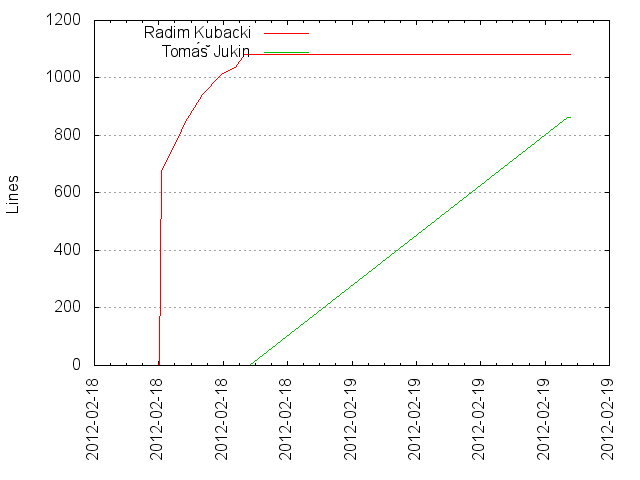
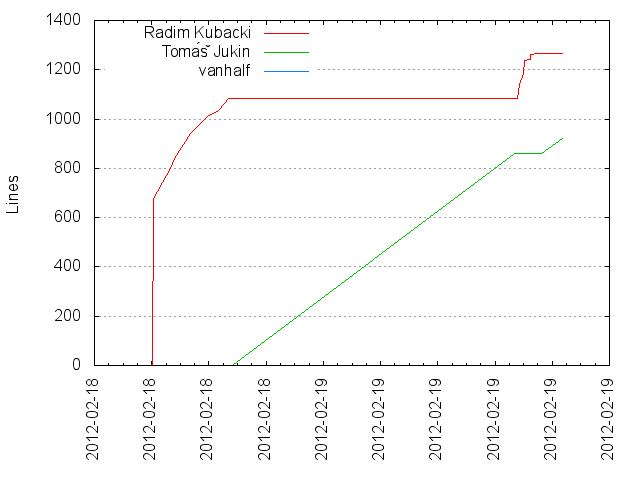
Generated git repository statistics

diff --git a/GADCPrague_stats/activity.html b/GADCPrague_stats/activity.html
@@ -4,7 +4,7 @@
 <head>
 	<title>GitStats - Look-Around</title>
 	<link rel="stylesheet" href="gitstats.css" type="text/css" />
-	<meta name="generator" content="GitStats 0230480" />
+	<meta name="generator" content="GitStats 7aebe57" />
 	<script type="text/javascript" src="sortable.js"></script>
 </head>
 <body>
@@ -22,27 +22,27 @@
 
 <h2><a href="#weekly_activity" name="weekly_activity">Weekly activity</a></h2>
 
-<p>Last 32 weeks</p><table class="noborders"><tr><td style="text-align: center; vertical-align: bottom">0<div style="display: block; background-color: red; width: 20px; height: 1px"></div></td><td style="text-align: center; vertical-align: bottom">0<div style="display: block; background-color: red; width: 20px; height: 1px"></div></td><td style="text-align: center; vertical-align: bottom">0<div style="display: block; background-color: red; width: 20px; height: 1px"></div></td><td style="text-align: center; vertical-align: bottom">0<div style="display: block; background-color: red; width: 20px; height: 1px"></div></td><td style="text-align: center; vertical-align: bottom">0<div style="display: block; background-color: red; width: 20px; height: 1px"></div></td><td style="text-align: center; vertical-align: bottom">0<div style="display: block; background-color: red; width: 20px; height: 1px"></div></td><td style="text-align: center; vertical-align: bottom">0<div style="display: block; background-color: red; width: 20px; height: 1px"></div></td><td style="text-align: center; vertical-align: bottom">0<div style="display: block; background-color: red; width: 20px; height: 1px"></div></td><td style="text-align: center; vertical-align: bottom">0<div style="display: block; background-color: red; width: 20px; height: 1px"></div></td><td style="text-align: center; vertical-align: bottom">0<div style="display: block; background-color: red; width: 20px; height: 1px"></div></td><td style="text-align: center; vertical-align: bottom">0<div style="display: block; background-color: red; width: 20px; height: 1px"></div></td><td style="text-align: center; vertical-align: bottom">0<div style="display: block; background-color: red; width: 20px; height: 1px"></div></td><td style="text-align: center; vertical-align: bottom">0<div style="display: block; background-color: red; width: 20px; height: 1px"></div></td><td style="text-align: center; vertical-align: bottom">0<div style="display: block; background-color: red; width: 20px; height: 1px"></div></td><td style="text-align: center; vertical-align: bottom">0<div style="display: block; background-color: red; width: 20px; height: 1px"></div></td><td style="text-align: center; vertical-align: bottom">0<div style="display: block; background-color: red; width: 20px; height: 1px"></div></td><td style="text-align: center; vertical-align: bottom">0<div style="display: block; background-color: red; width: 20px; height: 1px"></div></td><td style="text-align: center; vertical-align: bottom">0<div style="display: block; background-color: red; width: 20px; height: 1px"></div></td><td style="text-align: center; vertical-align: bottom">0<div style="display: block; background-color: red; width: 20px; height: 1px"></div></td><td style="text-align: center; vertical-align: bottom">0<div style="display: block; background-color: red; width: 20px; height: 1px"></div></td><td style="text-align: center; vertical-align: bottom">0<div style="display: block; background-color: red; width: 20px; height: 1px"></div></td><td style="text-align: center; vertical-align: bottom">0<div style="display: block; background-color: red; width: 20px; height: 1px"></div></td><td style="text-align: center; vertical-align: bottom">0<div style="display: block; background-color: red; width: 20px; height: 1px"></div></td><td style="text-align: center; vertical-align: bottom">0<div style="display: block; background-color: red; width: 20px; height: 1px"></div></td><td style="text-align: center; vertical-align: bottom">0<div style="display: block; background-color: red; width: 20px; height: 1px"></div></td><td style="text-align: center; vertical-align: bottom">0<div style="display: block; background-color: red; width: 20px; height: 1px"></div></td><td style="text-align: center; vertical-align: bottom">0<div style="display: block; background-color: red; width: 20px; height: 1px"></div></td><td style="text-align: center; vertical-align: bottom">0<div style="display: block; background-color: red; width: 20px; height: 1px"></div></td><td style="text-align: center; vertical-align: bottom">0<div style="display: block; background-color: red; width: 20px; height: 1px"></div></td><td style="text-align: center; vertical-align: bottom">0<div style="display: block; background-color: red; width: 20px; height: 1px"></div></td><td style="text-align: center; vertical-align: bottom">0<div style="display: block; background-color: red; width: 20px; height: 1px"></div></td><td style="text-align: center; vertical-align: bottom">13<div style="display: block; background-color: red; width: 20px; height: 200px"></div></td></tr><tr><td>32</td><td>31</td><td>30</td><td>29</td><td>28</td><td>27</td><td>26</td><td>25</td><td>24</td><td>23</td><td>22</td><td>21</td><td>20</td><td>19</td><td>18</td><td>17</td><td>16</td><td>15</td><td>14</td><td>13</td><td>12</td><td>11</td><td>10</td><td>9</td><td>8</td><td>7</td><td>6</td><td>5</td><td>4</td><td>3</td><td>2</td><td>1</td></tr></table>
+<p>Last 32 weeks</p><table class="noborders"><tr><td style="text-align: center; vertical-align: bottom">0<div style="display: block; background-color: red; width: 20px; height: 1px"></div></td><td style="text-align: center; vertical-align: bottom">0<div style="display: block; background-color: red; width: 20px; height: 1px"></div></td><td style="text-align: center; vertical-align: bottom">0<div style="display: block; background-color: red; width: 20px; height: 1px"></div></td><td style="text-align: center; vertical-align: bottom">0<div style="display: block; background-color: red; width: 20px; height: 1px"></div></td><td style="text-align: center; vertical-align: bottom">0<div style="display: block; background-color: red; width: 20px; height: 1px"></div></td><td style="text-align: center; vertical-align: bottom">0<div style="display: block; background-color: red; width: 20px; height: 1px"></div></td><td style="text-align: center; vertical-align: bottom">0<div style="display: block; background-color: red; width: 20px; height: 1px"></div></td><td style="text-align: center; vertical-align: bottom">0<div style="display: block; background-color: red; width: 20px; height: 1px"></div></td><td style="text-align: center; vertical-align: bottom">0<div style="display: block; background-color: red; width: 20px; height: 1px"></div></td><td style="text-align: center; vertical-align: bottom">0<div style="display: block; background-color: red; width: 20px; height: 1px"></div></td><td style="text-align: center; vertical-align: bottom">0<div style="display: block; background-color: red; width: 20px; height: 1px"></div></td><td style="text-align: center; vertical-align: bottom">0<div style="display: block; background-color: red; width: 20px; height: 1px"></div></td><td style="text-align: center; vertical-align: bottom">0<div style="display: block; background-color: red; width: 20px; height: 1px"></div></td><td style="text-align: center; vertical-align: bottom">0<div style="display: block; background-color: red; width: 20px; height: 1px"></div></td><td style="text-align: center; vertical-align: bottom">0<div style="display: block; background-color: red; width: 20px; height: 1px"></div></td><td style="text-align: center; vertical-align: bottom">0<div style="display: block; background-color: red; width: 20px; height: 1px"></div></td><td style="text-align: center; vertical-align: bottom">0<div style="display: block; background-color: red; width: 20px; height: 1px"></div></td><td style="text-align: center; vertical-align: bottom">0<div style="display: block; background-color: red; width: 20px; height: 1px"></div></td><td style="text-align: center; vertical-align: bottom">0<div style="display: block; background-color: red; width: 20px; height: 1px"></div></td><td style="text-align: center; vertical-align: bottom">0<div style="display: block; background-color: red; width: 20px; height: 1px"></div></td><td style="text-align: center; vertical-align: bottom">0<div style="display: block; background-color: red; width: 20px; height: 1px"></div></td><td style="text-align: center; vertical-align: bottom">0<div style="display: block; background-color: red; width: 20px; height: 1px"></div></td><td style="text-align: center; vertical-align: bottom">0<div style="display: block; background-color: red; width: 20px; height: 1px"></div></td><td style="text-align: center; vertical-align: bottom">0<div style="display: block; background-color: red; width: 20px; height: 1px"></div></td><td style="text-align: center; vertical-align: bottom">0<div style="display: block; background-color: red; width: 20px; height: 1px"></div></td><td style="text-align: center; vertical-align: bottom">0<div style="display: block; background-color: red; width: 20px; height: 1px"></div></td><td style="text-align: center; vertical-align: bottom">0<div style="display: block; background-color: red; width: 20px; height: 1px"></div></td><td style="text-align: center; vertical-align: bottom">0<div style="display: block; background-color: red; width: 20px; height: 1px"></div></td><td style="text-align: center; vertical-align: bottom">0<div style="display: block; background-color: red; width: 20px; height: 1px"></div></td><td style="text-align: center; vertical-align: bottom">0<div style="display: block; background-color: red; width: 20px; height: 1px"></div></td><td style="text-align: center; vertical-align: bottom">0<div style="display: block; background-color: red; width: 20px; height: 1px"></div></td><td style="text-align: center; vertical-align: bottom">28<div style="display: block; background-color: red; width: 20px; height: 200px"></div></td></tr><tr><td>32</td><td>31</td><td>30</td><td>29</td><td>28</td><td>27</td><td>26</td><td>25</td><td>24</td><td>23</td><td>22</td><td>21</td><td>20</td><td>19</td><td>18</td><td>17</td><td>16</td><td>15</td><td>14</td><td>13</td><td>12</td><td>11</td><td>10</td><td>9</td><td>8</td><td>7</td><td>6</td><td>5</td><td>4</td><td>3</td><td>2</td><td>1</td></tr></table>
 <h2><a href="#hour_of_day" name="hour_of_day">Hour of Day</a></h2>
 
 <table><tr><th>Hour</th><th>0</th><th>1</th><th>2</th><th>3</th><th>4</th><th>5</th><th>6</th><th>7</th><th>8</th><th>9</th><th>10</th><th>11</th><th>12</th><th>13</th><th>14</th><th>15</th><th>16</th><th>17</th><th>18</th><th>19</th><th>20</th><th>21</th><th>22</th><th>23</th></tr>
-<tr><th>Commits</th><td>0</td><td>0</td><td>0</td><td>0</td><td>0</td><td>0</td><td>0</td><td>0</td><td>0</td><td>0</td><td>0</td><td>0</td><td style="background-color: rgb(159, 0, 0)">1</td><td style="background-color: rgb(191, 0, 0)">2</td><td style="background-color: rgb(255, 0, 0)">4</td><td style="background-color: rgb(159, 0, 0)">1</td><td style="background-color: rgb(159, 0, 0)">1</td><td style="background-color: rgb(191, 0, 0)">2</td><td style="background-color: rgb(191, 0, 0)">2</td><td>0</td><td>0</td><td>0</td><td>0</td><td>0</td></tr>
-<tr><th>%</th><td>0.00</td><td>0.00</td><td>0.00</td><td>0.00</td><td>0.00</td><td>0.00</td><td>0.00</td><td>0.00</td><td>0.00</td><td>0.00</td><td>0.00</td><td>0.00</td><td style="background-color: rgb(159, 0, 0)">7.69</td><td style="background-color: rgb(191, 0, 0)">15.38</td><td style="background-color: rgb(255, 0, 0)">30.77</td><td style="background-color: rgb(159, 0, 0)">7.69</td><td style="background-color: rgb(159, 0, 0)">7.69</td><td style="background-color: rgb(191, 0, 0)">15.38</td><td style="background-color: rgb(191, 0, 0)">15.38</td><td>0.00</td><td>0.00</td><td>0.00</td><td>0.00</td><td>0.00</td></tr></table><img src="hour_of_day.png" alt="Hour of Day" />
+<tr><th>Commits</th><td>0</td><td>0</td><td>0</td><td>0</td><td>0</td><td>0</td><td>0</td><td>0</td><td>0</td><td>0</td><td>0</td><td>0</td><td style="background-color: rgb(143, 0, 0)">1</td><td style="background-color: rgb(159, 0, 0)">2</td><td style="background-color: rgb(239, 0, 0)">7</td><td style="background-color: rgb(255, 0, 0)">8</td><td style="background-color: rgb(175, 0, 0)">3</td><td style="background-color: rgb(207, 0, 0)">5</td><td style="background-color: rgb(159, 0, 0)">2</td><td>0</td><td>0</td><td>0</td><td>0</td><td>0</td></tr>
+<tr><th>%</th><td>0.00</td><td>0.00</td><td>0.00</td><td>0.00</td><td>0.00</td><td>0.00</td><td>0.00</td><td>0.00</td><td>0.00</td><td>0.00</td><td>0.00</td><td>0.00</td><td style="background-color: rgb(143, 0, 0)">3.57</td><td style="background-color: rgb(159, 0, 0)">7.14</td><td style="background-color: rgb(239, 0, 0)">25.00</td><td style="background-color: rgb(255, 0, 0)">28.57</td><td style="background-color: rgb(175, 0, 0)">10.71</td><td style="background-color: rgb(207, 0, 0)">17.86</td><td style="background-color: rgb(159, 0, 0)">7.14</td><td>0.00</td><td>0.00</td><td>0.00</td><td>0.00</td><td>0.00</td></tr></table><img src="hour_of_day.png" alt="Hour of Day" />
 <h2><a href="#day_of_week" name="day_of_week">Day of Week</a></h2>
 
-<div class="vtable"><table><tr><th>Day</th><th>Total (%)</th></tr><tr><th>Mon</th><td>0</td></tr><tr><th>Tue</th><td>0</td></tr><tr><th>Wed</th><td>0</td></tr><tr><th>Thu</th><td>0</td></tr><tr><th>Fri</th><td>0</td></tr><tr><th>Sat</th><td>11 (84.62%)</td></tr><tr><th>Sun</th><td>2 (15.38%)</td></tr></table></div><img src="day_of_week.png" alt="Day of Week" />
+<div class="vtable"><table><tr><th>Day</th><th>Total (%)</th></tr><tr><th>Mon</th><td>0</td></tr><tr><th>Tue</th><td>0</td></tr><tr><th>Wed</th><td>0</td></tr><tr><th>Thu</th><td>0</td></tr><tr><th>Fri</th><td>0</td></tr><tr><th>Sat</th><td>11 (39.29%)</td></tr><tr><th>Sun</th><td>17 (60.71%)</td></tr></table></div><img src="day_of_week.png" alt="Day of Week" />
 <h2><a href="#hour_of_week" name="hour_of_week">Hour of Week</a></h2>
 
-<table><tr><th>Weekday</th><th>0</th><th>1</th><th>2</th><th>3</th><th>4</th><th>5</th><th>6</th><th>7</th><th>8</th><th>9</th><th>10</th><th>11</th><th>12</th><th>13</th><th>14</th><th>15</th><th>16</th><th>17</th><th>18</th><th>19</th><th>20</th><th>21</th><th>22</th><th>23</th></tr><tr><th>Mon</th><td></td><td></td><td></td><td></td><td></td><td></td><td></td><td></td><td></td><td></td><td></td><td></td><td></td><td></td><td></td><td></td><td></td><td></td><td></td><td></td><td></td><td></td><td></td><td></td></tr><tr><th>Tue</th><td></td><td></td><td></td><td></td><td></td><td></td><td></td><td></td><td></td><td></td><td></td><td></td><td></td><td></td><td></td><td></td><td></td><td></td><td></td><td></td><td></td><td></td><td></td><td></td></tr><tr><th>Wed</th><td></td><td></td><td></td><td></td><td></td><td></td><td></td><td></td><td></td><td></td><td></td><td></td><td></td><td></td><td></td><td></td><td></td><td></td><td></td><td></td><td></td><td></td><td></td><td></td></tr><tr><th>Thu</th><td></td><td></td><td></td><td></td><td></td><td></td><td></td><td></td><td></td><td></td><td></td><td></td><td></td><td></td><td></td><td></td><td></td><td></td><td></td><td></td><td></td><td></td><td></td><td></td></tr><tr><th>Fri</th><td></td><td></td><td></td><td></td><td></td><td></td><td></td><td></td><td></td><td></td><td></td><td></td><td></td><td></td><td></td><td></td><td></td><td></td><td></td><td></td><td></td><td></td><td></td><td></td></tr><tr><th>Sat</th><td></td><td></td><td></td><td></td><td></td><td></td><td></td><td></td><td></td><td></td><td></td><td></td><td style="background-color: rgb(191, 0, 0)">1</td><td style="background-color: rgb(255, 0, 0)">2</td><td style="background-color: rgb(255, 0, 0)">2</td><td style="background-color: rgb(191, 0, 0)">1</td><td style="background-color: rgb(191, 0, 0)">1</td><td style="background-color: rgb(255, 0, 0)">2</td><td style="background-color: rgb(255, 0, 0)">2</td><td></td><td></td><td></td><td></td><td></td></tr><tr><th>Sun</th><td></td><td></td><td></td><td></td><td></td><td></td><td></td><td></td><td></td><td></td><td></td><td></td><td></td><td></td><td style="background-color: rgb(255, 0, 0)">2</td><td></td><td></td><td></td><td></td><td></td><td></td><td></td><td></td><td></td></tr></table>
+<table><tr><th>Weekday</th><th>0</th><th>1</th><th>2</th><th>3</th><th>4</th><th>5</th><th>6</th><th>7</th><th>8</th><th>9</th><th>10</th><th>11</th><th>12</th><th>13</th><th>14</th><th>15</th><th>16</th><th>17</th><th>18</th><th>19</th><th>20</th><th>21</th><th>22</th><th>23</th></tr><tr><th>Mon</th><td></td><td></td><td></td><td></td><td></td><td></td><td></td><td></td><td></td><td></td><td></td><td></td><td></td><td></td><td></td><td></td><td></td><td></td><td></td><td></td><td></td><td></td><td></td><td></td></tr><tr><th>Tue</th><td></td><td></td><td></td><td></td><td></td><td></td><td></td><td></td><td></td><td></td><td></td><td></td><td></td><td></td><td></td><td></td><td></td><td></td><td></td><td></td><td></td><td></td><td></td><td></td></tr><tr><th>Wed</th><td></td><td></td><td></td><td></td><td></td><td></td><td></td><td></td><td></td><td></td><td></td><td></td><td></td><td></td><td></td><td></td><td></td><td></td><td></td><td></td><td></td><td></td><td></td><td></td></tr><tr><th>Thu</th><td></td><td></td><td></td><td></td><td></td><td></td><td></td><td></td><td></td><td></td><td></td><td></td><td></td><td></td><td></td><td></td><td></td><td></td><td></td><td></td><td></td><td></td><td></td><td></td></tr><tr><th>Fri</th><td></td><td></td><td></td><td></td><td></td><td></td><td></td><td></td><td></td><td></td><td></td><td></td><td></td><td></td><td></td><td></td><td></td><td></td><td></td><td></td><td></td><td></td><td></td><td></td></tr><tr><th>Sat</th><td></td><td></td><td></td><td></td><td></td><td></td><td></td><td></td><td></td><td></td><td></td><td></td><td style="background-color: rgb(145, 0, 0)">1</td><td style="background-color: rgb(163, 0, 0)">2</td><td style="background-color: rgb(163, 0, 0)">2</td><td style="background-color: rgb(145, 0, 0)">1</td><td style="background-color: rgb(145, 0, 0)">1</td><td style="background-color: rgb(163, 0, 0)">2</td><td style="background-color: rgb(163, 0, 0)">2</td><td></td><td></td><td></td><td></td><td></td></tr><tr><th>Sun</th><td></td><td></td><td></td><td></td><td></td><td></td><td></td><td></td><td></td><td></td><td></td><td></td><td></td><td></td><td style="background-color: rgb(218, 0, 0)">5</td><td style="background-color: rgb(255, 0, 0)">7</td><td style="background-color: rgb(163, 0, 0)">2</td><td style="background-color: rgb(181, 0, 0)">3</td><td></td><td></td><td></td><td></td><td></td><td></td></tr></table>
 <h2><a href="#month_of_year" name="month_of_year">Month of Year</a></h2>
 
-<div class="vtable"><table><tr><th>Month</th><th>Commits (%)</th></tr><tr><td>1</td><td>0 (0.00 %)</td></tr><tr><td>2</td><td>13 (100.00 %)</td></tr><tr><td>3</td><td>0 (0.00 %)</td></tr><tr><td>4</td><td>0 (0.00 %)</td></tr><tr><td>5</td><td>0 (0.00 %)</td></tr><tr><td>6</td><td>0 (0.00 %)</td></tr><tr><td>7</td><td>0 (0.00 %)</td></tr><tr><td>8</td><td>0 (0.00 %)</td></tr><tr><td>9</td><td>0 (0.00 %)</td></tr><tr><td>10</td><td>0 (0.00 %)</td></tr><tr><td>11</td><td>0 (0.00 %)</td></tr><tr><td>12</td><td>0 (0.00 %)</td></tr></table></div><img src="month_of_year.png" alt="Month of Year" />
+<div class="vtable"><table><tr><th>Month</th><th>Commits (%)</th></tr><tr><td>1</td><td>0 (0.00 %)</td></tr><tr><td>2</td><td>28 (100.00 %)</td></tr><tr><td>3</td><td>0 (0.00 %)</td></tr><tr><td>4</td><td>0 (0.00 %)</td></tr><tr><td>5</td><td>0 (0.00 %)</td></tr><tr><td>6</td><td>0 (0.00 %)</td></tr><tr><td>7</td><td>0 (0.00 %)</td></tr><tr><td>8</td><td>0 (0.00 %)</td></tr><tr><td>9</td><td>0 (0.00 %)</td></tr><tr><td>10</td><td>0 (0.00 %)</td></tr><tr><td>11</td><td>0 (0.00 %)</td></tr><tr><td>12</td><td>0 (0.00 %)</td></tr></table></div><img src="month_of_year.png" alt="Month of Year" />
 <h2><a href="#commits_by_year/month" name="commits_by_year/month">Commits by year/month</a></h2>
 
-<div class="vtable"><table><tr><th>Month</th><th>Commits</th><th>Lines added</th><th>Lines removed</th></tr><tr><td>2012-02</td><td>13</td><td>1945</td><td>71</td></tr></table></div><img src="commits_by_year_month.png" alt="Commits by year/month" />
+<div class="vtable"><table><tr><th>Month</th><th>Commits</th><th>Lines added</th><th>Lines removed</th></tr><tr><td>2012-02</td><td>28</td><td>2174</td><td>156</td></tr></table></div><img src="commits_by_year_month.png" alt="Commits by year/month" />
 <h2><a href="#commits_by_year" name="commits_by_year">Commits by Year</a></h2>
 
-<div class="vtable"><table><tr><th>Year</th><th>Commits (% of all)</th><th>Lines added</th><th>Lines removed</th></tr><tr><td>2012</td><td>13 (100.00%)</td><td>1945</td><td>71</td></tr></table></div><img src="commits_by_year.png" alt="Commits by Year" />
+<div class="vtable"><table><tr><th>Year</th><th>Commits (% of all)</th><th>Lines added</th><th>Lines removed</th></tr><tr><td>2012</td><td>28 (100.00%)</td><td>2174</td><td>156</td></tr></table></div><img src="commits_by_year.png" alt="Commits by Year" />
 <h2><a href="#commits_by_timezone" name="commits_by_timezone">Commits by Timezone</a></h2>
 
-<table><tr><th>Timezone</th><th>Commits</th><tr><th>+0100</th><td style="background-color: rgb(255, 0, 0)">13</td></tr></tr></table></body></html>
+<table><tr><th>Timezone</th><th>Commits</th><tr><th>+0100</th><td style="background-color: rgb(255, 0, 0)">28</td></tr></tr></table></body></html>

diff --git a/GADCPrague_stats/authors.html b/GADCPrague_stats/authors.html
@@ -4,7 +4,7 @@
 <head>
 	<title>GitStats - Look-Around</title>
 	<link rel="stylesheet" href="gitstats.css" type="text/css" />
-	<meta name="generator" content="GitStats 0230480" />
+	<meta name="generator" content="GitStats 7aebe57" />
 	<script type="text/javascript" src="sortable.js"></script>
 </head>
 <body>
@@ -22,7 +22,7 @@
 
 <h2><a href="#list_of_authors" name="list_of_authors">List of Authors</a></h2>
 
-<table class="authors sortable" id="authors"><tr><th>Author</th><th>Commits (%)</th><th>+ lines</th><th>- lines</th><th>First commit</th><th>Last commit</th><th class="unsortable">Age</th><th>Active days</th><th># by commits</th></tr><tr><td>Radim Kubacki</td><td>11 (84.62%)</td><td>1083</td><td>71</td><td>2012-02-18</td><td>2012-02-18</td><td>5:43:34</td><td>1</td><td>1</td></tr><tr><td>Tomáš Jukin</td><td>2 (15.38%)</td><td>862</td><td>0</td><td>2012-02-19</td><td>2012-02-19</td><td>0:13:17</td><td>1</td><td>2</td></tr></table>
+<table class="authors sortable" id="authors"><tr><th>Author</th><th>Commits (%)</th><th>+ lines</th><th>- lines</th><th>First commit</th><th>Last commit</th><th class="unsortable">Age</th><th>Active days</th><th># by commits</th></tr><tr><td>Radim Kubacki</td><td>21 (75.00%)</td><td>1265</td><td>118</td><td>2012-02-18</td><td>2012-02-19</td><td>1 day, 3:13:31</td><td>2</td><td>1</td></tr><tr><td>Tomáš Jukin</td><td>5 (17.86%)</td><td>923</td><td>52</td><td>2012-02-19</td><td>2012-02-19</td><td>3:20:31</td><td>1</td><td>2</td></tr><tr><td>vanhalf</td><td>2 (7.14%)</td><td>0</td><td>0</td><td>2012-02-19</td><td>2012-02-19</td><td>1:33:22</td><td>1</td><td>3</td></tr></table>
 <h2><a href="#cumulated_added_lines_of_code_per_author" name="cumulated_added_lines_of_code_per_author">Cumulated Added Lines of Code per Author</a></h2>
 
 <img src="lines_of_code_by_author.png" alt="Lines of code per Author" />
@@ -31,10 +31,10 @@
 <img src="commits_by_author.png" alt="Commits per Author" />
 <h2><a href="#author_of_month" name="author_of_month">Author of Month</a></h2>
 
-<table class="sortable" id="aom"><tr><th>Month</th><th>Author</th><th>Commits (%)</th><th class="unsortable">Next top 5</th><th>Number of authors</th></tr><tr><td>2012-02</td><td>Radim Kubacki</td><td>11 (84.62% of 13)</td><td>Tomáš Jukin</td><td>2</td></tr></table>
+<table class="sortable" id="aom"><tr><th>Month</th><th>Author</th><th>Commits (%)</th><th class="unsortable">Next top 5</th><th>Number of authors</th></tr><tr><td>2012-02</td><td>Radim Kubacki</td><td>21 (75.00% of 28)</td><td>Tomáš Jukin, vanhalf</td><td>3</td></tr></table>
 <h2><a href="#author_of_year" name="author_of_year">Author of Year</a></h2>
 
-<table class="sortable" id="aoy"><tr><th>Year</th><th>Author</th><th>Commits (%)</th><th class="unsortable">Next top 5</th><th>Number of authors</th></tr><tr><td>2012</td><td>Radim Kubacki</td><td>11 (84.62% of 13)</td><td>Tomáš Jukin</td><td>2</td></tr></table>
+<table class="sortable" id="aoy"><tr><th>Year</th><th>Author</th><th>Commits (%)</th><th class="unsortable">Next top 5</th><th>Number of authors</th></tr><tr><td>2012</td><td>Radim Kubacki</td><td>21 (75.00% of 28)</td><td>Tomáš Jukin, vanhalf</td><td>3</td></tr></table>
 <h2><a href="#commits_by_domains" name="commits_by_domains">Commits by Domains</a></h2>
 
-<div class="vtable"><table><tr><th>Domains</th><th>Total (%)</th></tr><tr><th>kubacki.cz</th><td>11 (84.62%)</td></tr><tr><th>jukin.cz</th><td>2 (15.38%)</td></tr></table></div><img src="domains.png" alt="Commits by Domains" /></body></html>
+<div class="vtable"><table><tr><th>Domains</th><th>Total (%)</th></tr><tr><th>kubacki.cz</th><td>21 (75.00%)</td></tr><tr><th>jukin.cz</th><td>5 (17.86%)</td></tr><tr><th>gmail.com</th><td>2 (7.14%)</td></tr></table></div><img src="domains.png" alt="Commits by Domains" /></body></html>

diff --git a/GADCPrague_stats/files.html b/GADCPrague_stats/files.html
@@ -4,7 +4,7 @@
 <head>
 	<title>GitStats - Look-Around</title>
 	<link rel="stylesheet" href="gitstats.css" type="text/css" />
-	<meta name="generator" content="GitStats 0230480" />
+	<meta name="generator" content="GitStats 7aebe57" />
 	<script type="text/javascript" src="sortable.js"></script>
 </head>
 <body>
@@ -20,11 +20,11 @@
 </ul>
 </div>
 <dl>
-<dt>Total files</dt><dd>73</dd><dt>Total lines</dt><dd>1874</dd><dt>Average file size</dt><dd>7856.14 bytes</dd></dl>
+<dt>Total files</dt><dd>78</dd><dt>Total lines</dt><dd>2018</dd><dt>Average file size</dt><dd>2369.01 bytes</dd></dl>
 
 <h2><a href="#file_count_by_date" name="file_count_by_date">File count by date</a></h2>
 
 <img src="files_by_date.png" alt="Files by Date" />
 <h2><a href="#extensions" name="extensions">Extensions</a></h2>
 
-<table class="sortable" id="ext"><tr><th>Extension</th><th>Files (%)</th><th>Lines (%)</th><th>Lines/file</th></tr><tr><td></td><td>4 (5.48%)</td><td>47 (2.51%)</td><td>11</td></tr><tr><td>cache</td><td>1 (1.37%)</td><td>2 (0.11%)</td><td>2</td></tr><tr><td>cfg</td><td>2 (2.74%)</td><td>80 (4.27%)</td><td>40</td></tr><tr><td>css</td><td>1 (1.37%)</td><td>145 (7.74%)</td><td>145</td></tr><tr><td>dat</td><td>10 (13.70%)</td><td>85 (4.54%)</td><td>8</td></tr><tr><td>gif</td><td>3 (4.11%)</td><td>6 (0.32%)</td><td>2</td></tr><tr><td>html</td><td>6 (8.22%)</td><td>184 (9.82%)</td><td>30</td></tr><tr><td>java</td><td>4 (5.48%)</td><td>657 (35.06%)</td><td>164</td></tr><tr><td>js</td><td>1 (1.37%)</td><td>324 (17.29%)</td><td>324</td></tr><tr><td>mp4</td><td>1 (1.37%)</td><td>1700 (90.72%)</td><td>1700</td></tr><tr><td>plot</td><td>10 (13.70%)</td><td>118 (6.30%)</td><td>11</td></tr><tr><td>png</td><td>18 (24.66%)</td><td>257 (13.71%)</td><td>14</td></tr><tr><td>properties</td><td>5 (6.85%)</td><td>39 (2.08%)</td><td>7</td></tr><tr><td>xml</td><td>7 (9.59%)</td><td>181 (9.66%)</td><td>25</td></tr></table></body></html>
+<table class="sortable" id="ext"><tr><th>Extension</th><th>Files (%)</th><th>Lines (%)</th><th>Lines/file</th></tr><tr><td></td><td>6 (7.69%)</td><td>91 (4.51%)</td><td>15</td></tr><tr><td>apk</td><td>1 (1.28%)</td><td>168 (8.33%)</td><td>168</td></tr><tr><td>cache</td><td>1 (1.28%)</td><td>12 (0.59%)</td><td>12</td></tr><tr><td>cfg</td><td>2 (2.56%)</td><td>80 (3.96%)</td><td>40</td></tr><tr><td>css</td><td>1 (1.28%)</td><td>145 (7.19%)</td><td>145</td></tr><tr><td>dat</td><td>10 (12.82%)</td><td>94 (4.66%)</td><td>9</td></tr><tr><td>gif</td><td>3 (3.85%)</td><td>6 (0.30%)</td><td>2</td></tr><tr><td>html</td><td>6 (7.69%)</td><td>184 (9.12%)</td><td>30</td></tr><tr><td>java</td><td>5 (6.41%)</td><td>739 (36.62%)</td><td>147</td></tr><tr><td>js</td><td>1 (1.28%)</td><td>324 (16.06%)</td><td>324</td></tr><tr><td>mp4</td><td>1 (1.28%)</td><td>0 (0.00%)</td><td>0</td></tr><tr><td>plot</td><td>10 (12.82%)</td><td>118 (5.85%)</td><td>11</td></tr><tr><td>png</td><td>18 (23.08%)</td><td>304 (15.06%)</td><td>16</td></tr><tr><td>properties</td><td>6 (7.69%)</td><td>49 (2.43%)</td><td>8</td></tr><tr><td>xml</td><td>7 (8.97%)</td><td>181 (8.97%)</td><td>25</td></tr></table></body></html>

diff --git a/GADCPrague_stats/index.html b/GADCPrague_stats/index.html
@@ -4,7 +4,7 @@
 <head>
 	<title>GitStats - Look-Around</title>
 	<link rel="stylesheet" href="gitstats.css" type="text/css" />
-	<meta name="generator" content="GitStats 0230480" />
+	<meta name="generator" content="GitStats 7aebe57" />
 	<script type="text/javascript" src="sortable.js"></script>
 </head>
 <body>
@@ -19,5 +19,5 @@
 <li><a href="tags.html">Tags</a></li>
 </ul>
 </div>
-<dl><dt>Project name</dt><dd>Look-Around</dd><dt>Generated</dt><dd>2012-02-19 17:40:10 (in 3 seconds)</dd><dt>Generator</dt><dd><a href="http://gitstats.sourceforge.net/">GitStats</a> (version 0230480), git version 1.7.1.1, gnuplot 4.4 patchlevel 4</dd><dt>Report Period</dt><dd>2012-02-18 12:56:06 to 2012-02-19 14:35:57</dd><dt>Age</dt><dd>2 days, 2 active days (100.00%)</dd><dt>Total Files</dt><dd>73</dd><dt>Total Lines of Code</dt><dd>1874 (1945 added, 71 removed)</dd><dt>Total Commits</dt><dd>13 (average 6.5 commits per active day, 6.5 per all days)</dd><dt>Authors</dt><dd>2 (average 6.5 commits per author)</dd></dl></body>
+<dl><dt>Project name</dt><dd>Look-Around</dd><dt>Generated</dt><dd>2012-02-19 17:48:24 (in 4 seconds)</dd><dt>Generator</dt><dd><a href="http://gitstats.sourceforge.net/">GitStats</a> (version 7aebe57), git version 1.7.1.1, gnuplot 4.4 patchlevel 4</dd><dt>Report Period</dt><dd>2012-02-18 12:56:06 to 2012-02-19 17:43:11</dd><dt>Age</dt><dd>2 days, 2 active days (100.00%)</dd><dt>Total Files</dt><dd>78</dd><dt>Total Lines of Code</dt><dd>2018 (2174 added, 156 removed)</dd><dt>Total Commits</dt><dd>28 (average 14.0 commits per active day, 14.0 per all days)</dd><dt>Authors</dt><dd>3 (average 9.3 commits per author)</dd></dl></body>
 </html>

diff --git a/GADCPrague_stats/lines.html b/GADCPrague_stats/lines.html
@@ -4,7 +4,7 @@
 <head>
 	<title>GitStats - Look-Around</title>
 	<link rel="stylesheet" href="gitstats.css" type="text/css" />
-	<meta name="generator" content="GitStats 0230480" />
+	<meta name="generator" content="GitStats 7aebe57" />
 	<script type="text/javascript" src="sortable.js"></script>
 </head>
 <body>
@@ -20,7 +20,7 @@
 </ul>
 </div>
 <dl>
-<dt>Total lines</dt><dd>1874</dd></dl>
+<dt>Total lines</dt><dd>2018</dd></dl>
 
 <h2><a href="#lines_of_code" name="lines_of_code">Lines of Code</a></h2>
 

diff --git a/GADCPrague_stats/tags.html b/GADCPrague_stats/tags.html
@@ -4,7 +4,7 @@
 <head>
 	<title>GitStats - Look-Around</title>
 	<link rel="stylesheet" href="gitstats.css" type="text/css" />
-	<meta name="generator" content="GitStats 0230480" />
+	<meta name="generator" content="GitStats 7aebe57" />
 	<script type="text/javascript" src="sortable.js"></script>
 </head>
 <body>
